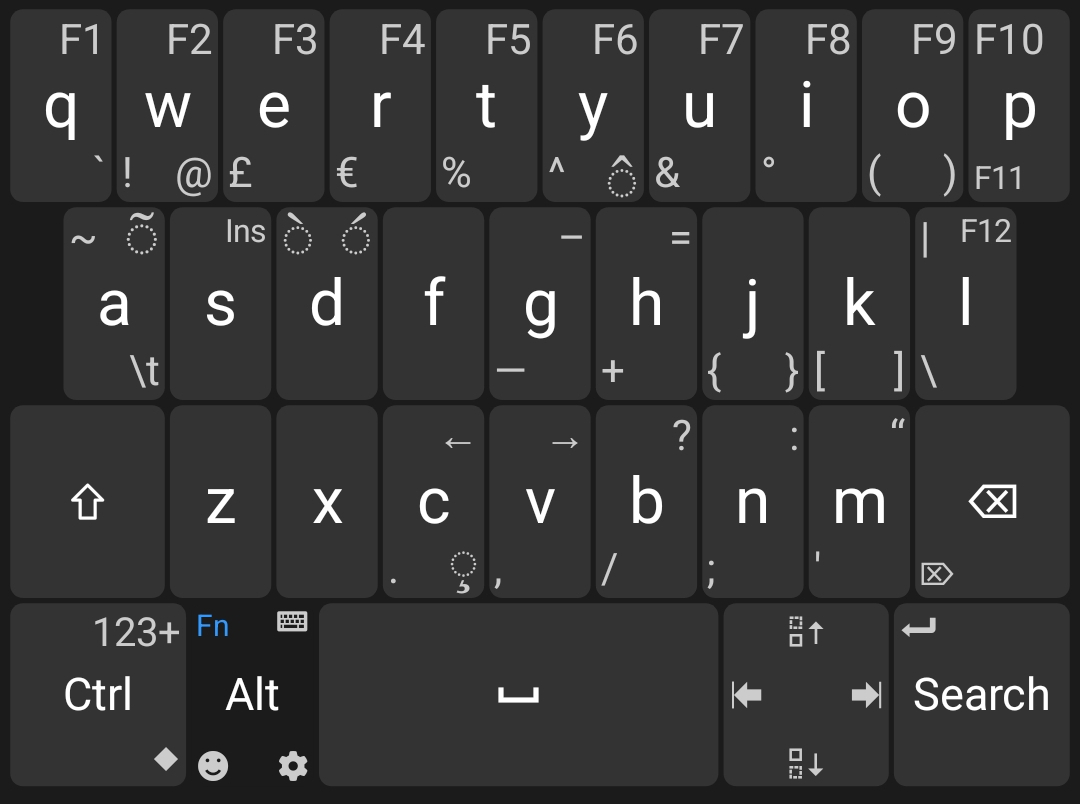
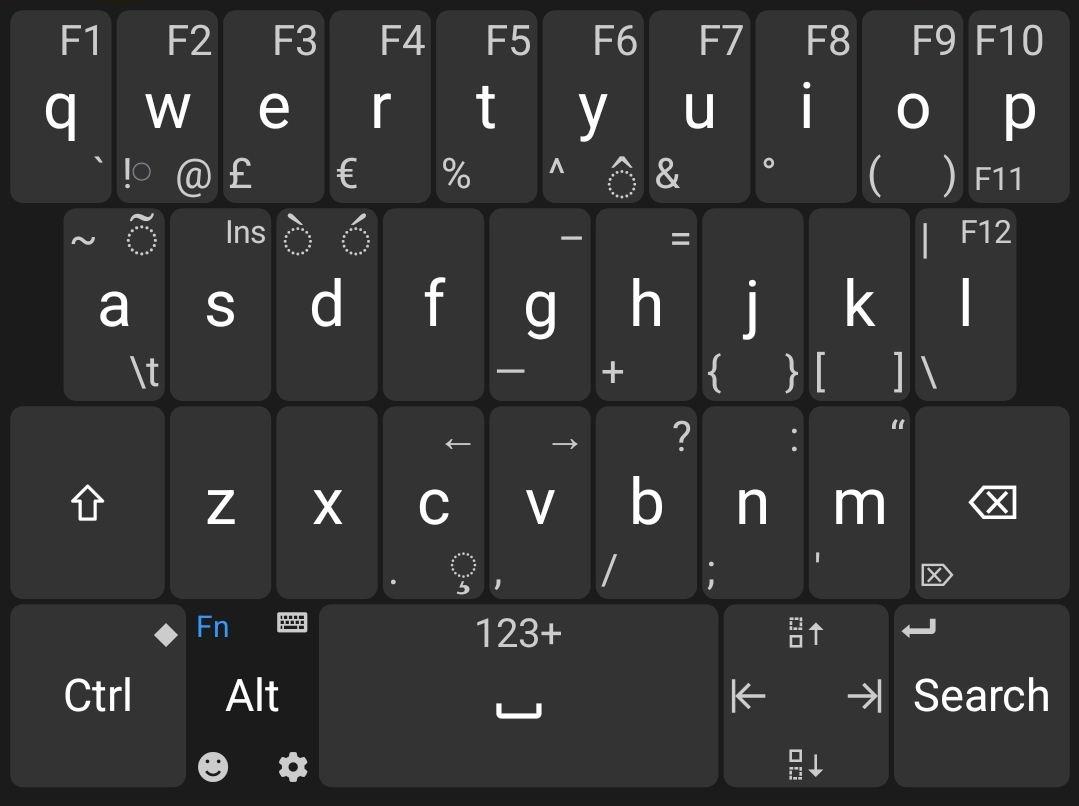
Update QWERTY2 layout, rearrange some keys, especially on the numeric pane

diff --git a/README.md b/README.md
@@ -1,15 +1,21 @@
 # Unexpected Keyboard
-###  - Personal fork for testing and adding personal preferences -  Readme.md Updated 2022-03-24
+###  - Personal fork for testing and adding personal preferences -  
+Readme.md Updated 2022-03-28
+
 Awesome work on the original [upstream](https://github.com/Julow/Unexpected-Keyboard) repo ❤
 
 This fork currently has the following extra changes:
+
 - Add QWERTY2 Layout, this layout is an alternative to the original QWERTY, it is a programming layout, (not a localization), the main goal on this layout was first to move the corners extrakeys away from phone's edge (good for bulky phone case), after that some other keys rearrangements were also done to improve the layout overall
-- ~~Second click on CTRL or ALT locks their state ON (configurable in preferences)~~ The upstream has this feature now
-- ~~Update unicode symbols to font-icons, so it renders consistently across different devices~~ The upstream has this feature now
-- ~~Increase maximum size of char label setting, useful for big screen resolutions~~ The upstream fixed the root cause, and this commit was reverted in this branch
-- The QUERTY2 layout has adjusted key proportions on the bottom row, giving more importance to the navigation arrows key
-- To implement the QUERTY2 Layout, there is some added logic that enable each individual layout to be paired with a specif numeric layout, so it's possible to have different numeric layouts.
-- Added an Extra variant APK builder to the makefile, called fork-debug, this extra apk has a different namespace, so it can be installed in parallel to the oficial APK, very useful for testing, or for building from source a modified version with personal preferences, and still be able to load the official APK at same time.
+- The QWERTY2 layout has adjusted key proportions on the bottom row, giving more importance to the navigation arrows key
+- To implement the QWERTY2 Layout, there is some added logic that enable each individual layout to be paired with a specif numeric layout, so it's possible to have different numeric layouts.
+- Added an Extra variant APK builder to the makefile, called fork-debug, this extra apk has a different namespace, so it can be installed in parallel to the official APK, very useful for testing, or for building from source a modified version with personal preferences, and still be able to load the official APK at same time.
+- Add the capability for the Github CI action to utilize the `DEBUG_KEYSTORE` secret, check the [Contributing](CONTRIBUTING.md) for instructions.
+- Added Box and Arrows input system on the numeric pad
+
+(QWERTY2 layout screenshots at end of this page)
+
+Debug APKs on the actions tab [link](https://github.com/sdrapha/Unexpected-Keyboard/actions?=query=branch%3Aall-branches-merged-in-one)
 
 -----
 ## Unexpected Keyboard
@@ -60,7 +66,13 @@ alt="Unexpected Keyboard Image"
 style="width: 400px;
        margin-left: 6px;
        margin-right: 6px;">
+
 <img src=metadata/android/en-US/images/featureGraphic2.png
+alt="Unexpected Keyboard Image"
+style="width: 400px;
+       margin-left: 6px;
+       margin-right: 6px;">
+<img src=metadata/android/en-US/images/featureGraphic4.png
 alt="Unexpected Keyboard Image"
 style="width: 400px;
        margin-left: 6px;
